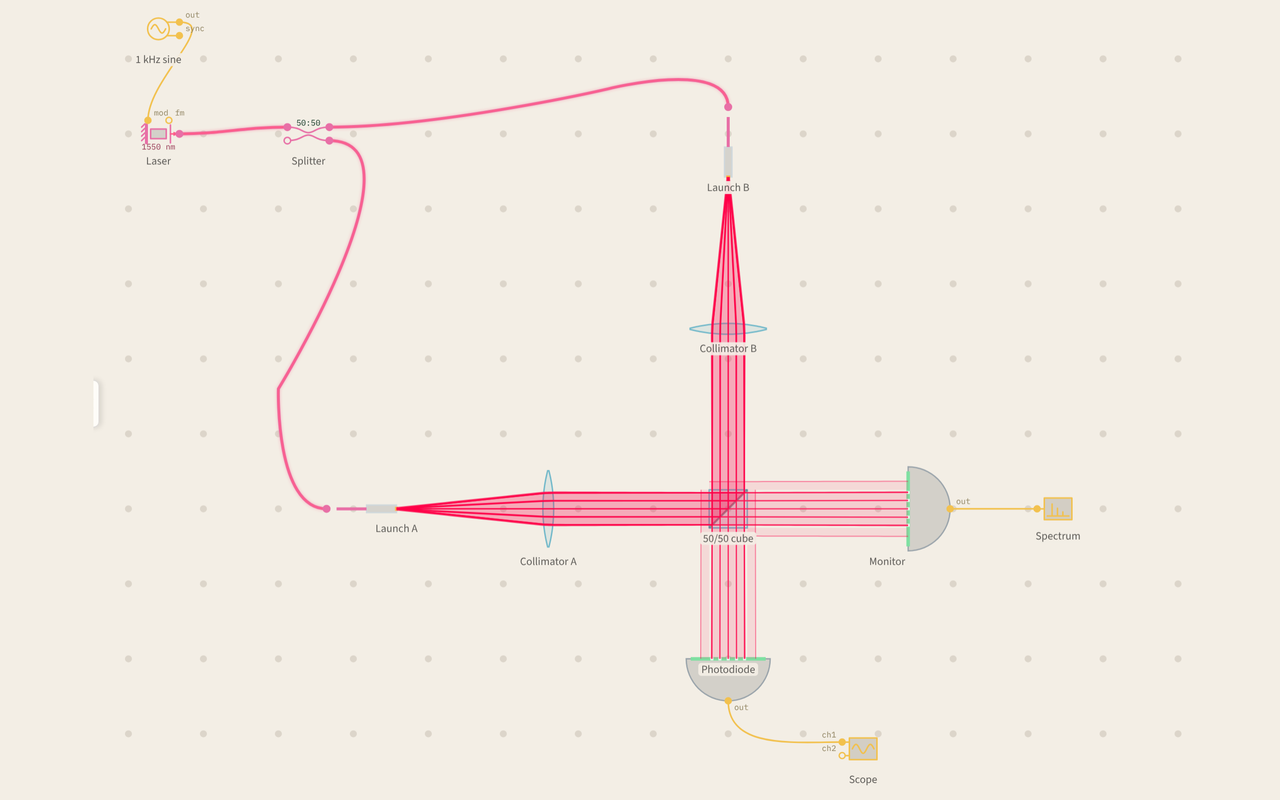
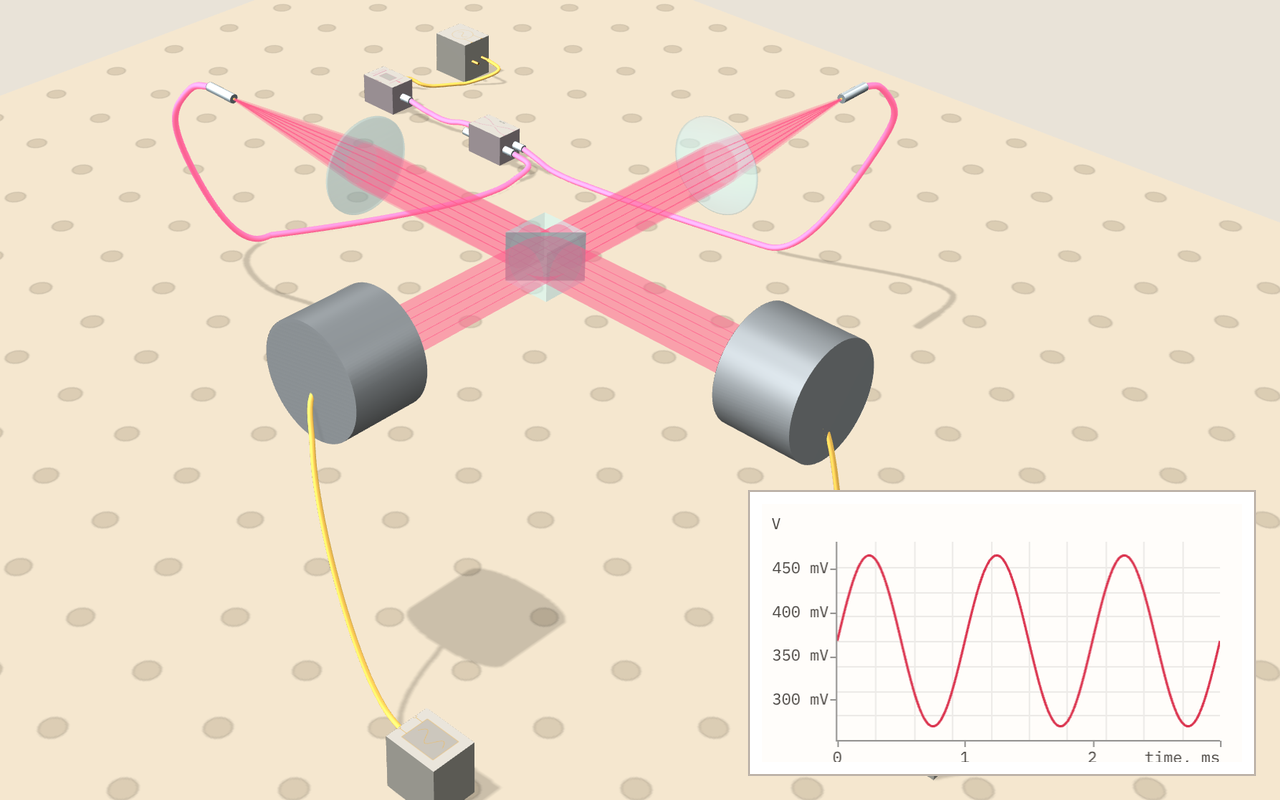
JEKray page features: the bench in 3D with its scope trace, what the paper checks test, the lens designer, why rays and the field together

diff --git a/jek/products/design-software/jekray/index.html b/jek/products/design-software/jekray/index.html
@@ -104,19 +104,19 @@
     <section class="jek-section" style="padding-top: 0">
       <div class="jek-wrap rt-feats">
         <div class="jek-feature">
-          <div><h2>The whole experiment, light to oscilloscope</h2><p>Free-space optics, fibre, photodiodes, amplifiers, mixers and lock-ins are solved together on one bench. Here a fibre laser, modulated at 1&nbsp;kHz, is split into two fibre launches, recombined on a cube and read by photodiodes wired to a scope and a spectrum analyser.</p><p><a href="/jek/tools/jekray.html#demo=fibre-heterodyne">Open the fibre heterodyne example</a></p></div>
-          <figure class="jek-shot"><img src="img/whole-bench.png" alt="A modulated fibre laser split into two fibre launches, recombined on a beam-splitter cube and read by photodiodes wired to an oscilloscope and a spectrum analyser" loading="lazy"></figure>
+          <div><h2>The whole experiment, light to oscilloscope</h2><p>Free-space optics, fibre, photodiodes, amplifiers, mixers and lock-ins are solved together on one bench. Here a fibre laser, modulated at 1&nbsp;kHz, is split into two fibre launches, recombined on a cube and read by photodiodes, one wired to the oscilloscope whose trace is shown.</p><p><a href="/jek/tools/jekray.html#demo=fibre-heterodyne">Open the fibre heterodyne example</a></p></div>
+          <figure class="jek-shot"><img src="img/whole-bench.png" alt="The bench in 3D: a modulated fibre laser split into two fibre launches, recombined on a beam-splitter cube and read by two photodiodes, with the oscilloscope&rsquo;s 1&nbsp;kHz trace" loading="lazy"></figure>
         </div>
         <div class="jek-feature">
-          <div><h2>Validated against 27 published papers</h2><p>Fox and Li&rsquo;s resonator losses, Safronova&rsquo;s atomic polarisabilities, Siddons&rsquo; measured rubidium absorption and Gieseler&rsquo;s measured gas damping are among them. ElecSus, Optiland and SAX check it as independent codes. Every check runs again in your browser when the validation page opens.</p><p><a href="/jek/tools/jekray-validation.html">See the validation page</a></p></div>
+          <div><h2>Validated against published papers</h2><p>Each check builds the setup a paper describes, runs JEKray on it in your browser and sets its answer beside the paper&rsquo;s measured or calculated result. The published numbers stay fixed, so any difference is JEKray&rsquo;s error, shown for the version you are using. Twenty-seven papers are covered, among them Fox and Li&rsquo;s resonator losses, Siddons&rsquo; measured rubidium absorption and Gieseler&rsquo;s measured gas damping.</p><p><a href="/jek/tools/jekray-validation.html">See the validation page</a></p></div>
           <figure class="jek-shot"><img src="img/saturated-absorption.png" alt="Saturated absorption spectroscopy of a rubidium cell, the probe read on a photodiode" loading="lazy"></figure>
         </div>
         <div class="jek-feature">
-          <div><h2>Optimise your design parameters</h2><p>Free the parameters you are willing to change and say what the design must meet. The optimiser searches them, the glass included from some 1,200 in the catalogues. Tolerance the result for yield, then export an ISO&nbsp;10110 drawing, a .zmx file and STEP solids for the workshop.</p><p><a href="/jek/docs/jekray/lens-design/">How lens design works</a></p></div>
+          <div><h2>Optimise your design parameters</h2><p>Open a Zemax .zmx or .zar file or start a lens from scratch, mark what may change and set what it must meet. The global search keeps the ten best distinct designs it finds and swaps in glasses from some 1,200 in the catalogues. Monte Carlo tolerancing gives the yield before anything is made, and Stock lenses tries the vendor lenses you have in place of your own. The design leaves as an ISO&nbsp;10110 drawing, a .zmx file and STEP solids, and goes back on the bench beside the rest of the experiment.</p><p><a href="/jek/docs/jekray/lens-design/">How lens design works</a></p></div>
           <figure class="jek-shot"><img src="img/lens-drawing.png" alt="A lens drawing in the manner of ISO 10110: the lens in section with its dimensions, surfaces, glass and tolerances" loading="lazy"></figure>
         </div>
         <div class="jek-feature">
-          <div><h2>Rays and the diffracted field</h2><p>Every part is traced with rays, and a Gaussian beam travels along each one. Switch on the diffracted field and the light is propagated as a wave too. Near a focus it moves by the angular spectrum, and far from one by a Fresnel transform that rescales its grid, so a tight focus and a long collimated beam both fit on a few hundred points.</p><p><a href="/jek/docs/jekray/concepts/">Read how the light is modelled</a></p></div>
+          <div><h2>Rays and the diffracted field</h2><p>Rays keep the bench quick enough to drag a part and watch everything downstream follow. When the answer depends on diffraction, at a tight focus or behind an aperture, the wave result comes from the same bench, with no second program and no model to rebuild. The method changes along the beam to suit it, so a tight focus and a long collimated beam both come out right in a browser tab.</p><p><a href="/jek/docs/jekray/concepts/">Read how the light is modelled</a></p></div>
           <figure class="jek-shot"><img src="img/field-3d.png" alt="A Mach&ndash;Zehnder interferometer in 3D, the diffracted field drawn along each beam on a log scale" loading="lazy"></figure>
         </div>
       </div>
